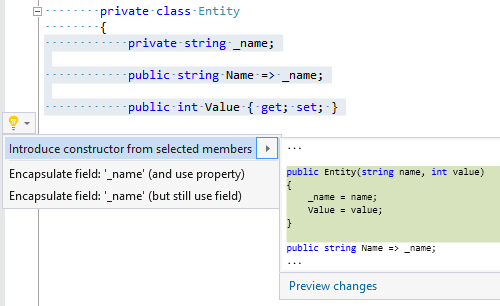
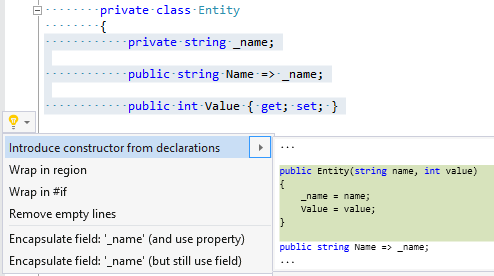
Update refactoring "IntroduceConstructor"

Changed region(s): [[0.0, 0.0, 1.0, 1.0]]

diff --git a/source/VisualStudio.Common/RefactoringsOptionsPage.Generated.cs b/source/VisualStudio.Common/RefactoringsOptionsPage.Generated.cs
@@ -797,7 +797,7 @@ namespace Pihrtsoft.CodeAnalysis.VisualStudio
         }
 
         [Category(RefactoringCategory)]
-        [DisplayName("Introduce constructor from selected member(s)")]
+        [DisplayName("Introduce constructor")]
         [Description("Syntax: field, property")]
         [TypeConverter(typeof (EnabledDisabledConverter))]
         public bool IntroduceConstructor

diff --git a/source/Refactorings/Refactoring/IntroduceConstructorRefactoring.cs b/source/Refactorings/Refactoring/IntroduceConstructorRefactoring.cs
@@ -23,7 +23,7 @@ namespace Pihrtsoft.CodeAnalysis.CSharp.Refactoring
 
                 if (members?.Count > 0)
                 {
-                    string text = "Introduce constructor from selected member";
+                    string text = "Introduce constructor from declaration";
 
                     if (members.Count > 1)
                         text += "s";
